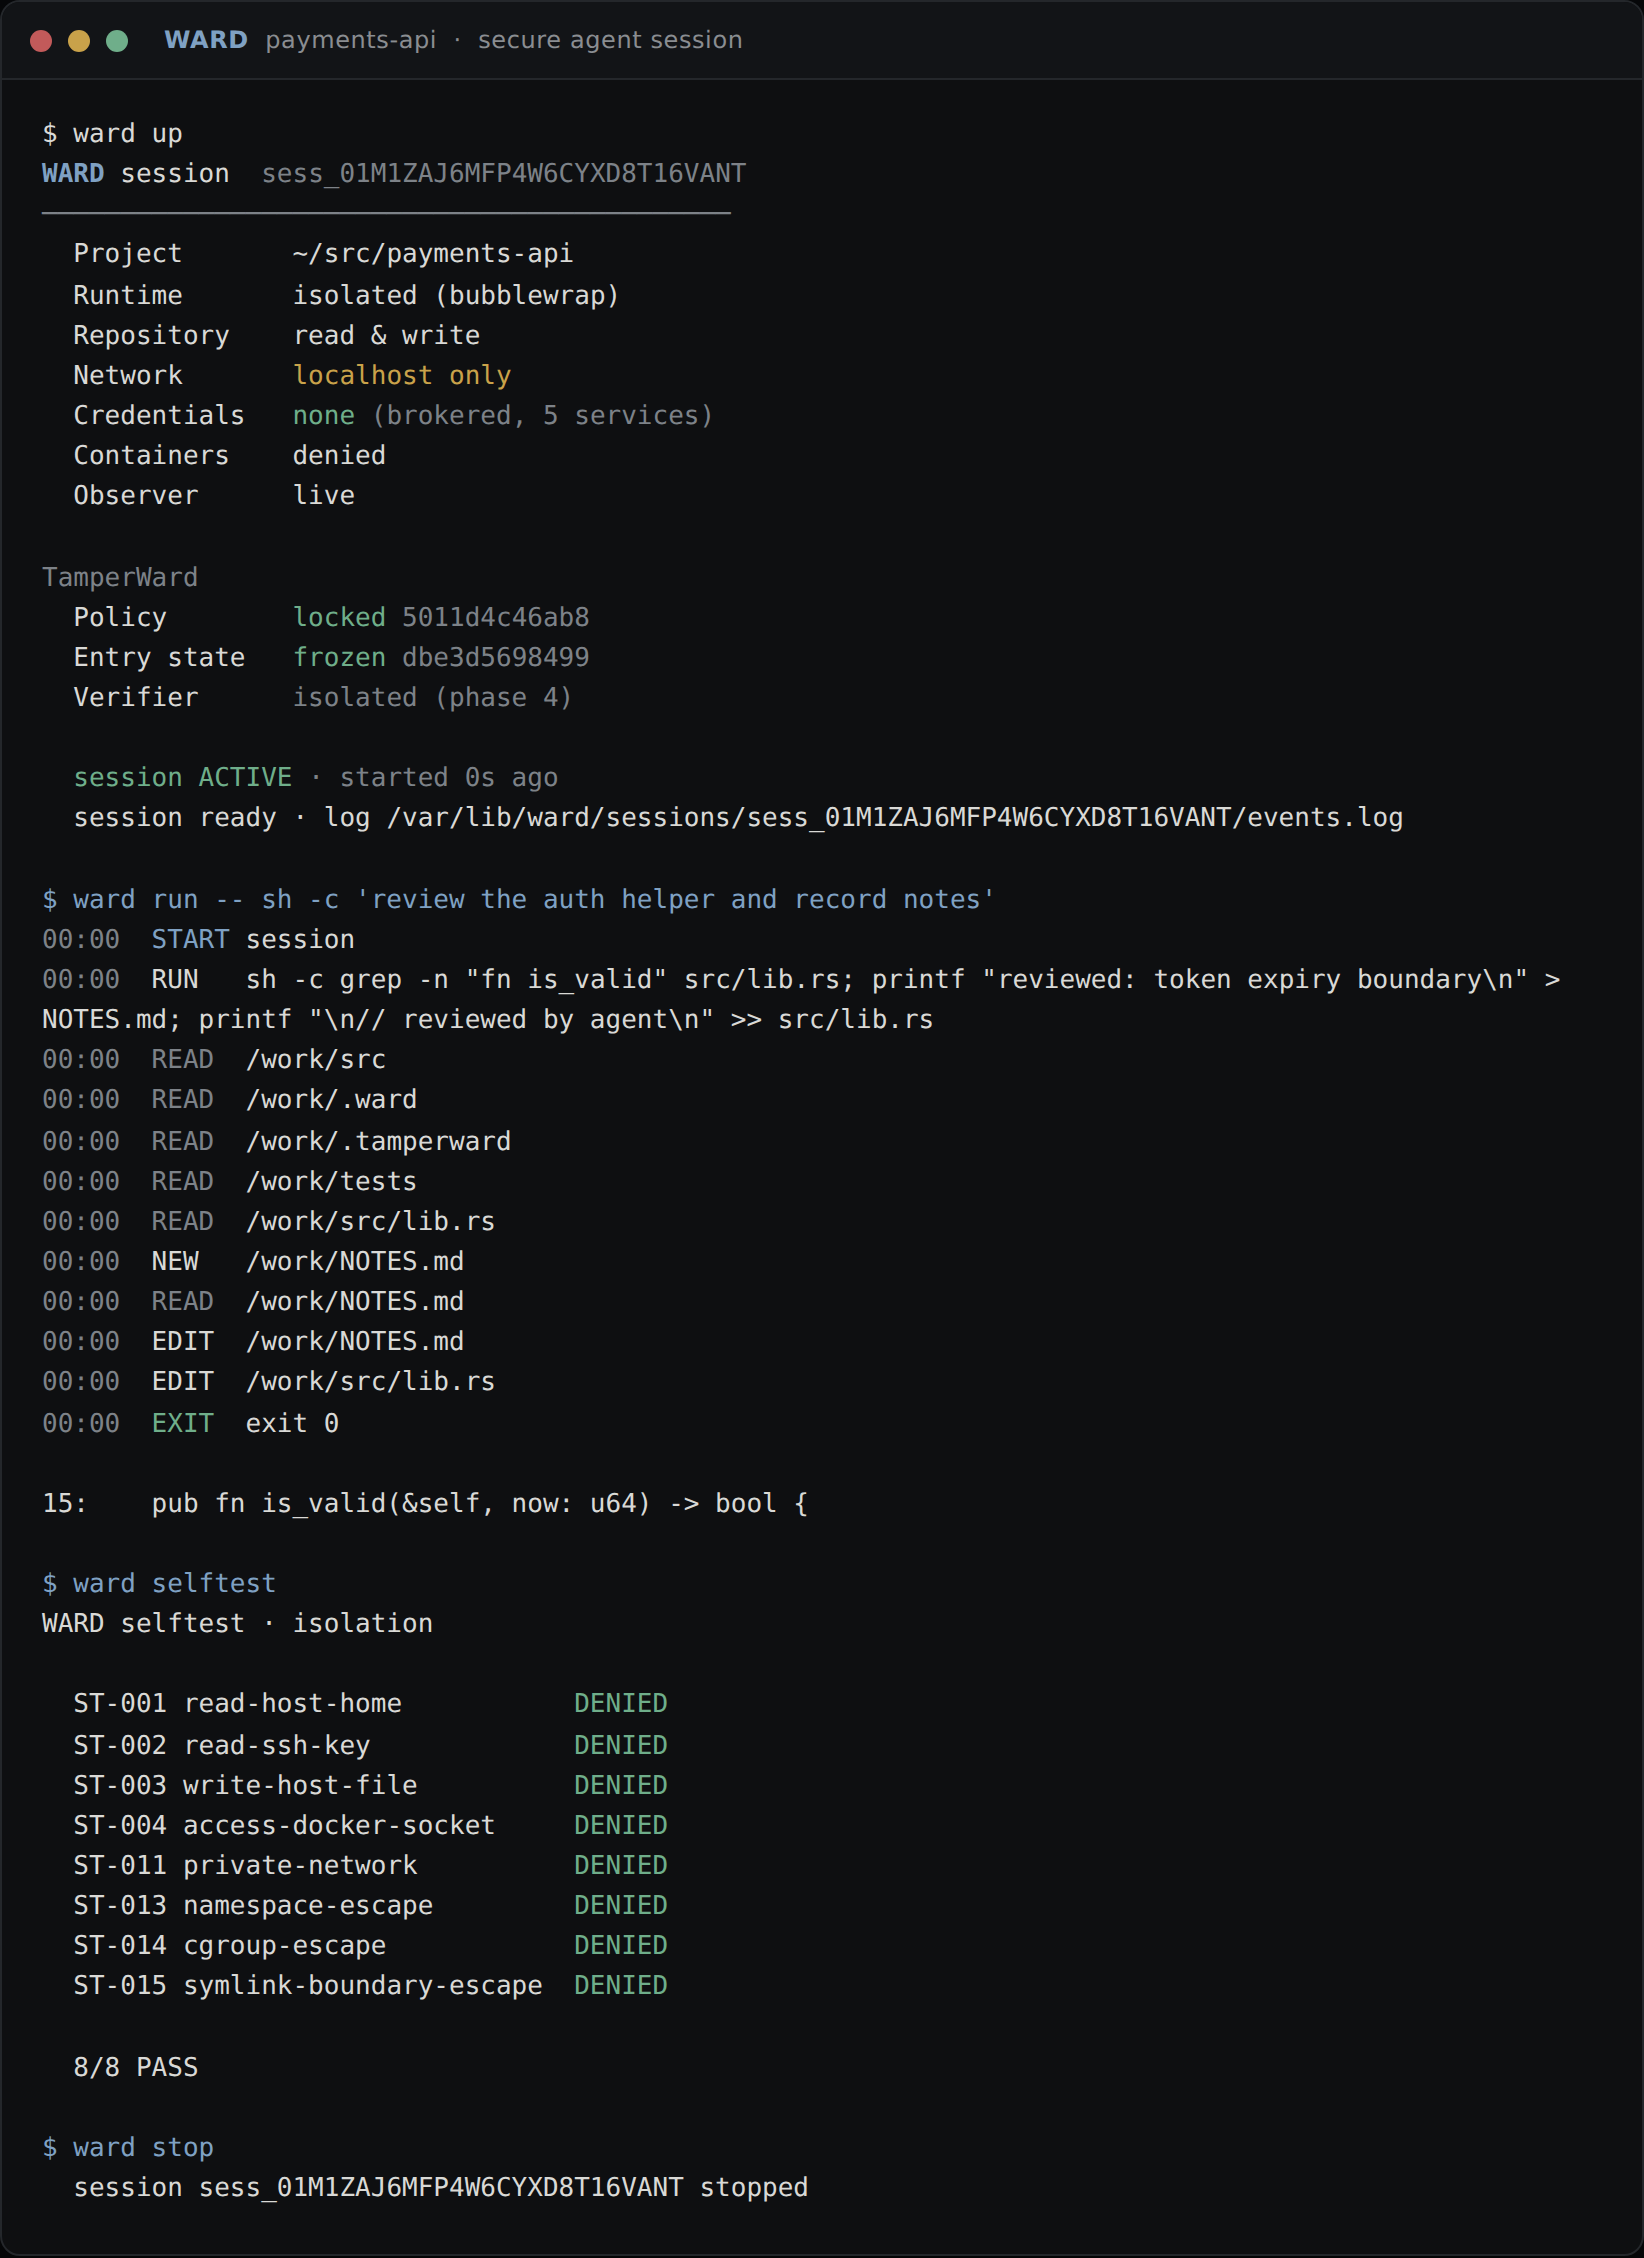
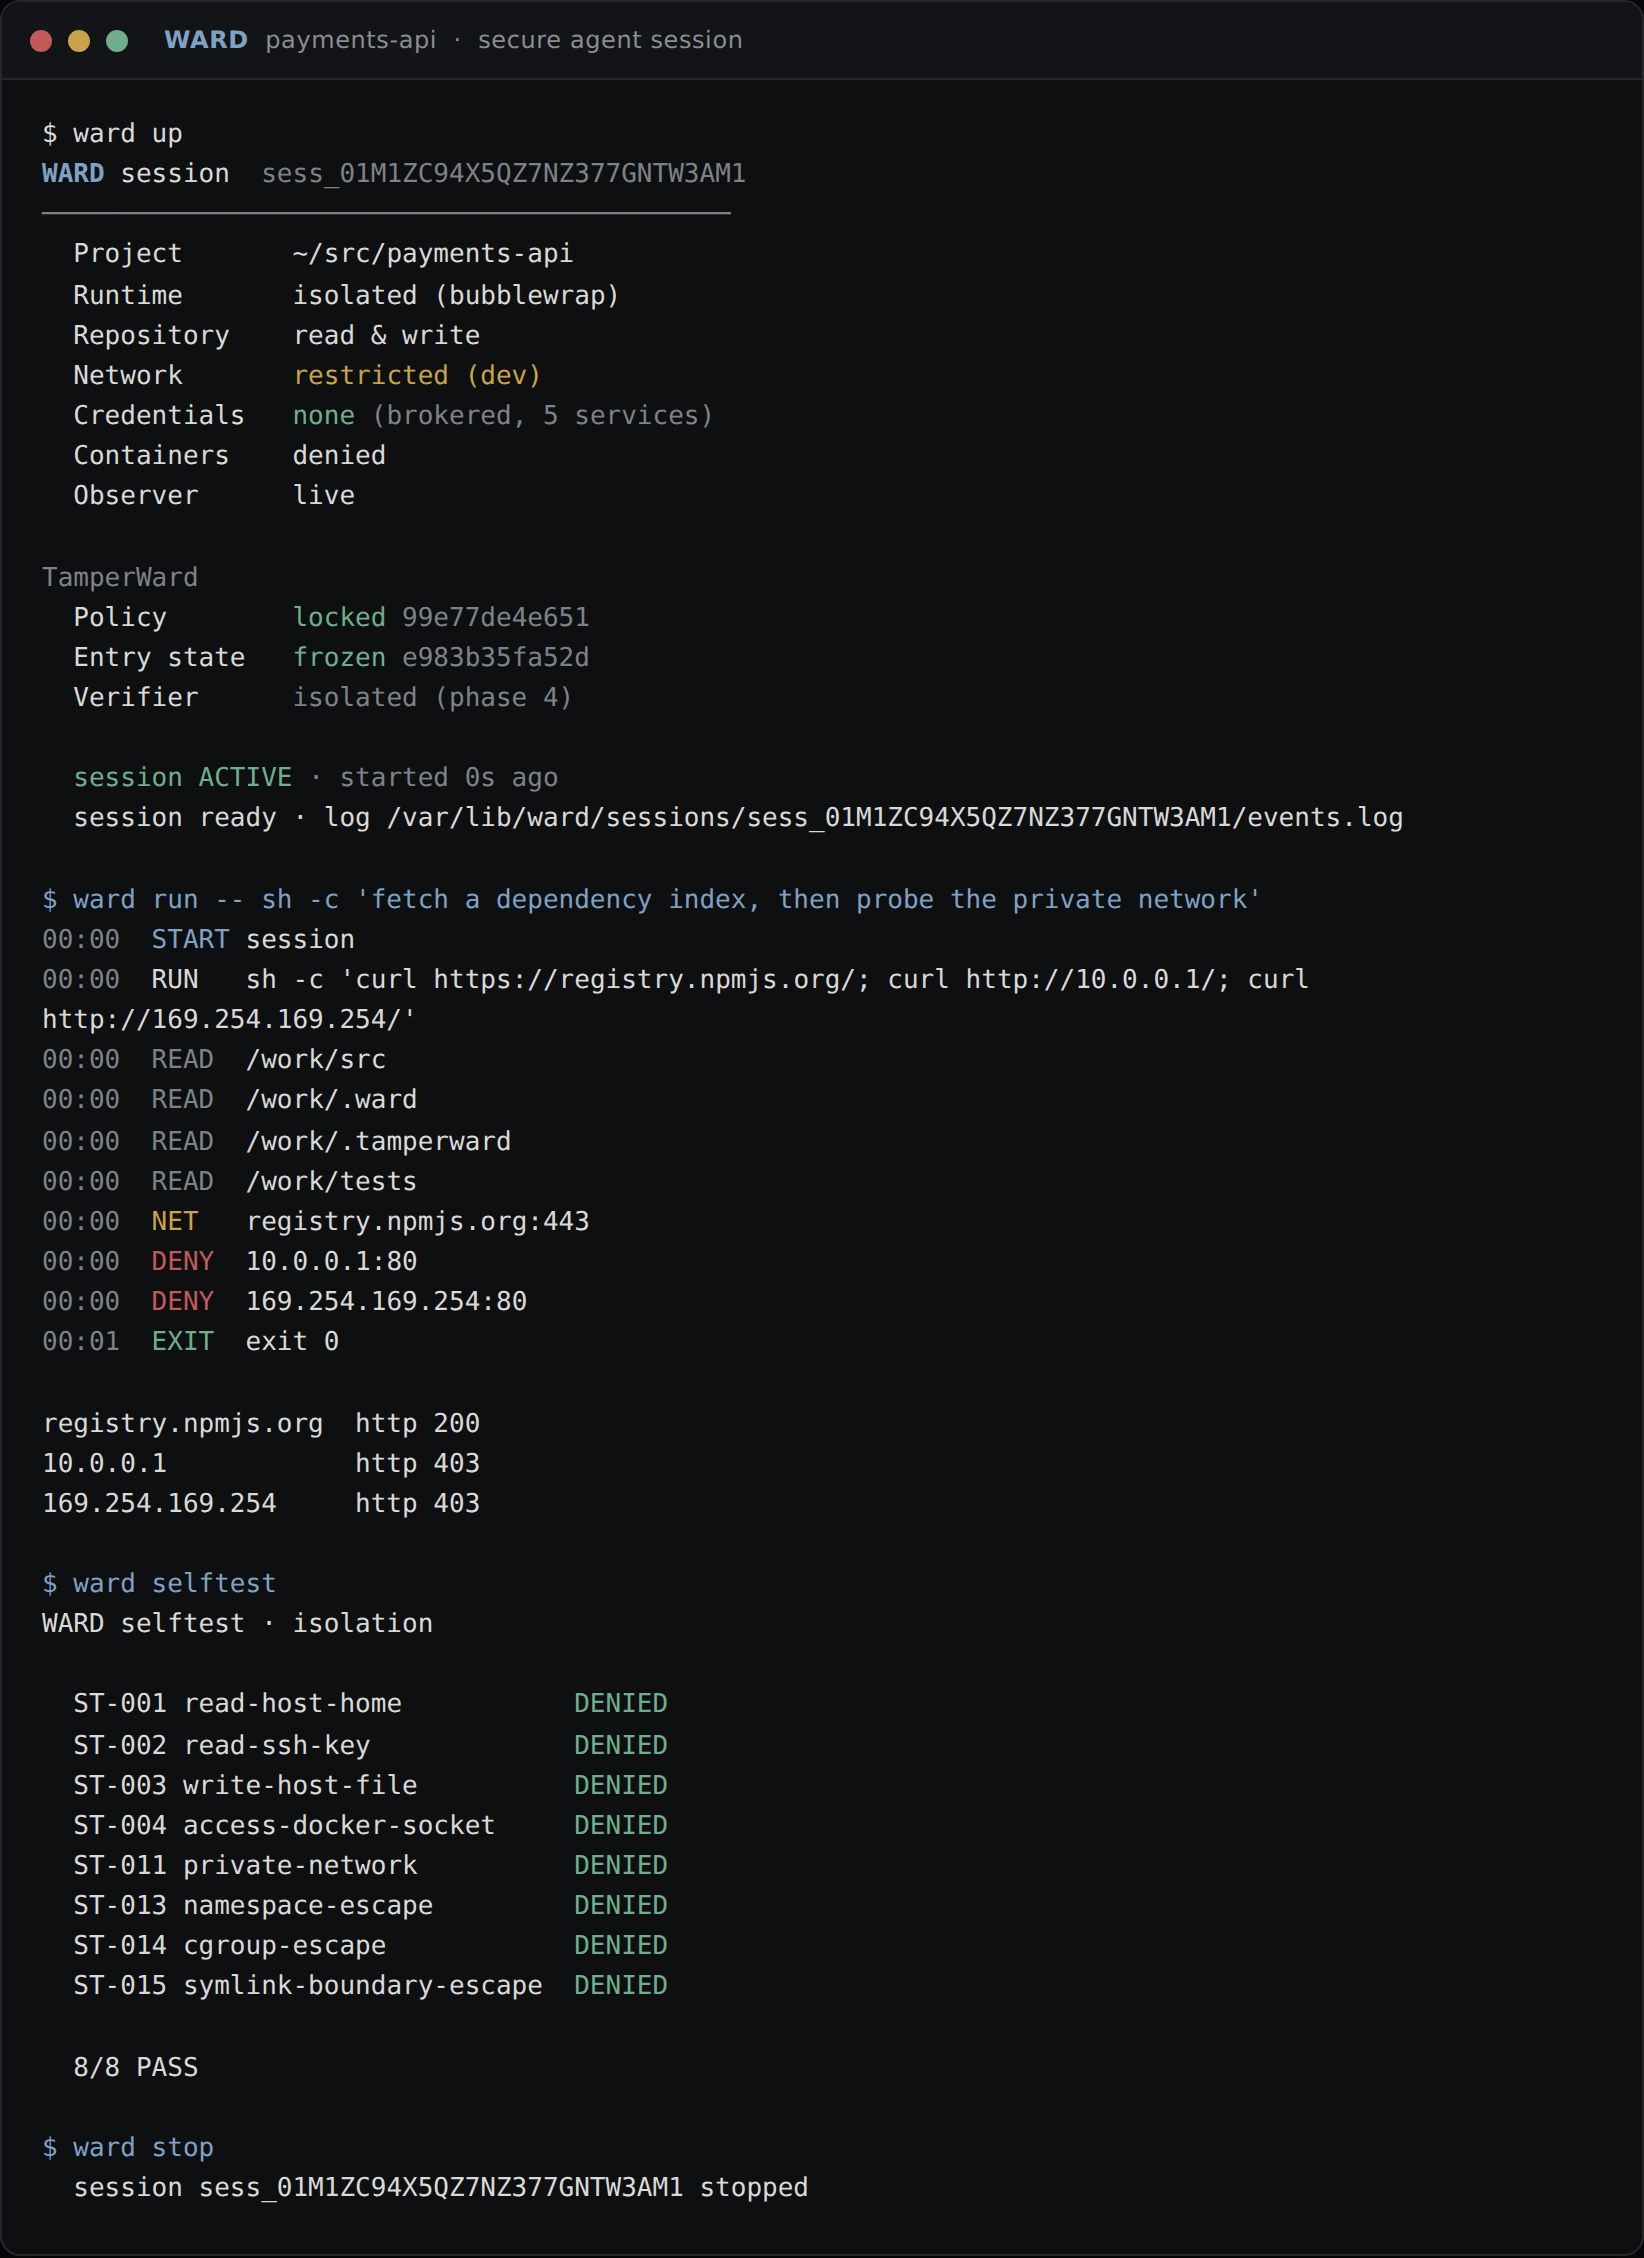
Docs: verified egress path, Phase 2 status, E-08 result, README screenshot (#24)
Built using Claude on behalf of Hexrift

diff --git a/README.md b/README.md
@@ -37,27 +37,31 @@ Observer        LIVE
 
 ## See it running
 
-The Phase 1 prototype runs today on any Linux host with `bubblewrap`. It merges the
-project's policy into a capability manifest, freezes a content-addressed entry snapshot,
-runs commands inside an isolated sandbox with live kernel-origin file events, and records
-every action to an append-only, hash-chained event log that persists across commands.
+The prototype runs today on any Linux host with `bubblewrap`. It merges the project's
+policy into a capability manifest, freezes a content-addressed entry snapshot, runs
+commands inside an isolated sandbox with live kernel-origin file events, routes every
+network request through a per-session policy proxy, and records everything to an
+append-only, hash-chained event log that persists across commands.
 
-![A WardOS session: security panel, live observer, isolation self-test](assets/ward-session.png)
+![A WardOS session: security panel, live observer with network decisions, isolation self-test](assets/ward-session.png)
 
 ```bash
 cargo build --release
 ward up       examples/ward-demo    # start a session: policy → manifest, entry snapshot, log
 ward run --dir examples/ward-demo -- cargo test   # run inside the sandbox; live observer
+ward claude   examples/ward-demo    # launch Claude Code in the sandbox (Phase 2, in progress)
 ward status   examples/ward-demo    # the security panel for the active session
 ward selftest examples/ward-demo    # prove the isolation (8/8 hostile probes blocked)
 ward stop     examples/ward-demo    # seal the log
 ward replay   <events.log>          # replay any sealed session
 ```
 
-The host home, SSH keys, cloud credentials, Docker socket, private network, and the
-namespace, cgroup and symlink escape routes are simply never reachable from the sandbox,
-so `ward selftest` shows every probe denied by construction, and CI reproduces the same
-result on every pull request.
+In the session above the sandbox's only way out is a Unix socket to the session proxy:
+an allowlisted registry is reached over real HTTPS (`NET`, `http 200`), while a private
+address and the cloud metadata endpoint are refused host-side (`DENY`, `403`). The host
+home, SSH keys, cloud credentials, Docker socket, and the namespace, cgroup and symlink
+escape routes are never reachable, so `ward selftest` shows every probe denied by
+construction, and CI reproduces the same result on every pull request.
 
 ## Design principle
 

diff --git a/docs/agent-integration.md b/docs/agent-integration.md
@@ -96,14 +96,17 @@ in `Development` mode; agents without hooks get intent only from exec/file captu
 
 ## 8. Status (Phase 2, in progress)
 
-Implemented: `ward claude` / `ward codex` launch the agent interactively inside the
-session sandbox with the agent profile env (private config dir, non-essential traffic
-off); every run gets a per-session `ward-proxy` on a Unix socket bound into the
-isolated network namespace (ADR-0014), and each proxy decision becomes a
-`NetworkRequested` / `NetworkDenied` record shown as `NET` / `DENY` in the observer.
-When a `ward-agent` build that supports `--relay` is present, launches go through the
-shim with `HTTP(S)_PROXY` pointing at the in-sandbox relay; the daemon probes the shim
-and, on kernels without Landlock, passes `--allow-no-landlock` and records the
-degradation rather than silently weakening. Host credentials enter the sandbox only via
-an explicit, printed `--pass-env NAME` opt-in; gateway-mode injection (§3) is the next
-step and will remove even that.
+Implemented and verified end to end: `ward claude` / `ward codex` launch the agent
+interactively inside the session sandbox with the agent profile env (private config
+dir, non-essential traffic off). Every run gets a per-session `ward-proxy` on a Unix
+socket bound into the isolated network namespace, `ward-agent` relays the sandbox's
+loopback `127.0.0.1:3128` to it, and both cases of `http_proxy`/`https_proxy` point
+there (ADR-0014). Each proxy decision is a `NetworkRequested` / `NetworkDenied` record
+rendered as `NET` / `DENY`. Measured on the demo: under `development`, an HTTPS request
+to `registry.npmjs.org` succeeds (`200`, TLS verified against the read-only CA roots
+bound into the sandbox) while `10.0.0.1` and `169.254.169.254` get `403`; under
+`localhost_only`, `api.github.com` gets `403`. The daemon probes the shim for
+`--relay` support and Landlock availability and records degradation rather than
+silently weakening. Host credentials enter the sandbox only via an explicit, printed
+`--pass-env NAME`; gateway-mode injection (§3) is being implemented in `ward-proxy` so
+that even this becomes unnecessary for the model API key.

diff --git a/docs/experiments.md b/docs/experiments.md
@@ -174,6 +174,11 @@ contents.
   subvolume snapshot and reflink ingest could not be measured (no Btrfs on the host).
   Full data and the measuring implementation are on branch
   `phase-1/ward-snapshot-full` (`experiments/E-02/RESULT.md`).
+* **E-08 (restricted egress) — partial PASS.** From inside the sandbox, via the shim
+  relay and the session proxy: `development` mode reaches `registry.npmjs.org` over
+  HTTPS (`200`) and denies `10.0.0.1` and `169.254.169.254` (`403`); `localhost_only`
+  denies `api.github.com`. Agent-specific host lists (Claude Code OAuth/API hosts) are
+  allowlisted in `Development` and remain to be exercised with the real agents (E-07).
 * **E-06 (sandbox warm start) — could not measure here.** `crun` cannot manage
   cgroups in the nested CI environment; the spike records `CANNOT-MEASURE-HERE` with
   the exact commands to run on a real cgroups-v2 host

diff --git a/docs/roadmap.md b/docs/roadmap.md
@@ -63,6 +63,17 @@ session (that is Phase 2's `ward claude`).
 
 ## Phase 2 — Agent support
 
+### Phase 2 — delivered so far
+
+`ward claude` and `ward codex` launch inside the sandbox; the ADR-0014 egress path
+(`ward-proxy` on a Unix socket, `ward-agent` loopback relay) is implemented and
+verified with real HTTPS to an allowlisted host and `403` for private and metadata
+destinations, all visible in the observer. Remaining for the gate: gateway-mode
+credential injection so no model-API key enters the sandbox, agent hook adapters for
+step-through, nested containers (E-04), and a full session replay of an agent run.
+
+
+
 ```text
 ward claude
 ward codex
